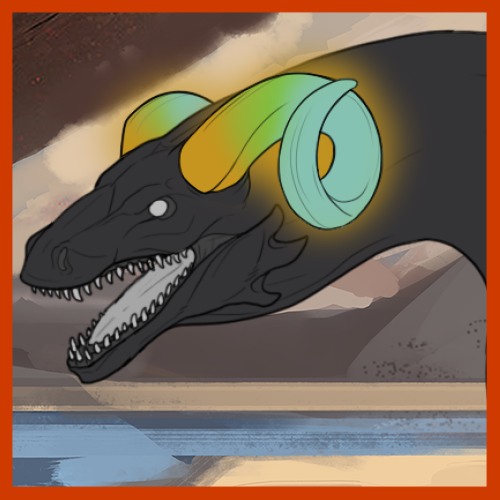
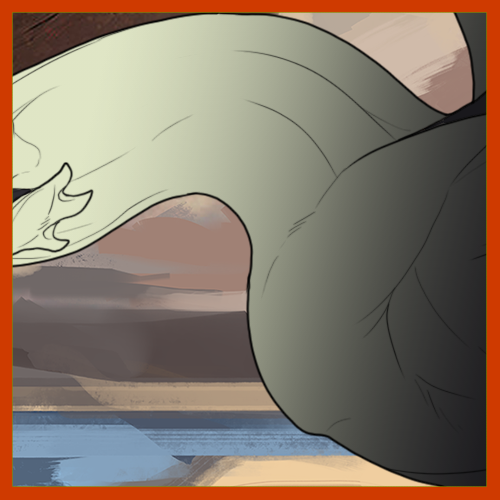
Solar flare update.

diff --git a/resources/views/design_guides/legendary/solar_flare.blade.php b/resources/views/design_guides/legendary/solar_flare.blade.php
@@ -3,7 +3,7 @@
     $marking_name = 'Solar Flare';
     $marking_code = 'nSf/SfSf';
     $marking_type = 'Variable';
-    $marking_desc = "A marking that causes the horns, claws, or spikes on the dragon to glow and allows the horns to be any color.";
+    $marking_desc = "A marking that causes a brilliant wave color to cascade from a point on the character's body. Suggested by PlusBacon.";
     $layers_above_or_below = '';
     $layers_above = '';
     $layers_below = '';
@@ -45,31 +45,38 @@
         'solarflare_yes2',
         'solarflare_yes3',
         'solarflare_yes4',
+        'solarflare_yes5',
+        'solarflare_yes6',
         'solarflare_no1',
         'solarflare_no2',
         'solarflare_no5',
+        'solarflare_no6',
+        'solarflare_no7',
     ];
 
     // You can use html!
     $marking_can = [
-        'Is allowed up to a 12 point value and saturation point gradient difference inside the marking. This gradient may not blend into the base, or appear to blend into the base.',
-        'Solar flare is allowed to make the horns, spikes, and claws any color. The horns, claws, spikes can alternate in color and do not have to all be the same color.',
-        'Solar Flare can cause a gradient of colors based on if it is recessive or dominant.',
-        'Solar flare causes a gold, which can appear behind or in front of the horns, claws, and spikes.',
-        'Solar flare can effect only one, or all horns/claws/spikes, including one or the other horn or alternating spikes/etc.',
-
+        '<b>Value and Saturation Gradient Blend</b> = Yes; 12 Points.<br>
+        ♦ Solar flare should appear as a gradient with a minimum 3 to 4 colors blending into the base coat. <br>
+        ♦ Solar flare can be any color, affected by a color marking, or affected by duotone and tritone to give it more color options.<br>
+        ♦ Dark colors are allowed so long as there are at least 3 or 4 different colors present in the gradient.<br> 
+        ♦ An <i>optional</i> glow is allowed only <b>behind</b> the dragon. It may have a secondary glow spot to create a lens flare effect.',
     ];
 
     $marking_cannot = [
-        'Solar flare cannot have a metallic shine effect (It can have shading though)',
-        'Solar flare cannot obstruct too much of the design.',    
-        'Solar flare can ONLY affect the horns, claws, and spikes',
+        'There should be no metallic shine effect on the dragon.<br>
+        ♦ Mimicing another marking is not allowed. Be especially wary of mimicing stained or dipped by only have one color.<br> 
+        ♦ The <i>optional</i> glow must be behind the dragon and should not be on top of it. Neither should the lens flare effect. <br> 
+        ♦ Unlike Solar flares original design, it may not cause the horn, claws, or spikes to glow. However the <i>optional</i> glow may be behind the horns/etc.<br>
+        ♦ While you can use different shades of colors, there needs to be at least enough variation so that it is not just three or four shades of the same color. I.e. using a orange red, yellow red, red, and a more purple tone will be correct, while simply using four shades of red will not be correct.',
     ];
 
     $marking_must = [
-        'Recessive can allow the horns/spikes/claws to gradient up to four colors.',
-        'Dominant can allow the horns/spikes/claws gradient up to seven colors.',
-        'Solar Flare must have a glow.',
+        '<b>Recessive Coverage:</b> 40% of the body and from only a single "point."<br>
+        ♦ <b>Dominant Coverage:</b> 60% of the body and can be from two "points."<br>
+        ♦ <i>Points</i> Refer to one of the following parts of the character: Head, Front Legs, Back Legs, Wings, Tail. Front legs would count as one point, same as back legs and wings.<br>
+        ♦ In the case of <i>dominant</i> solar flare, two glows may be present <b>behind</b> the body with two lens flares also behind the body.<br>
+        ♦ Solar flare must have a minimum of 3 or 4 colors present in the marking, however it can up to 7 colors maximum.',
     ];
 
     // If left empty, the swatches section will not be shown
